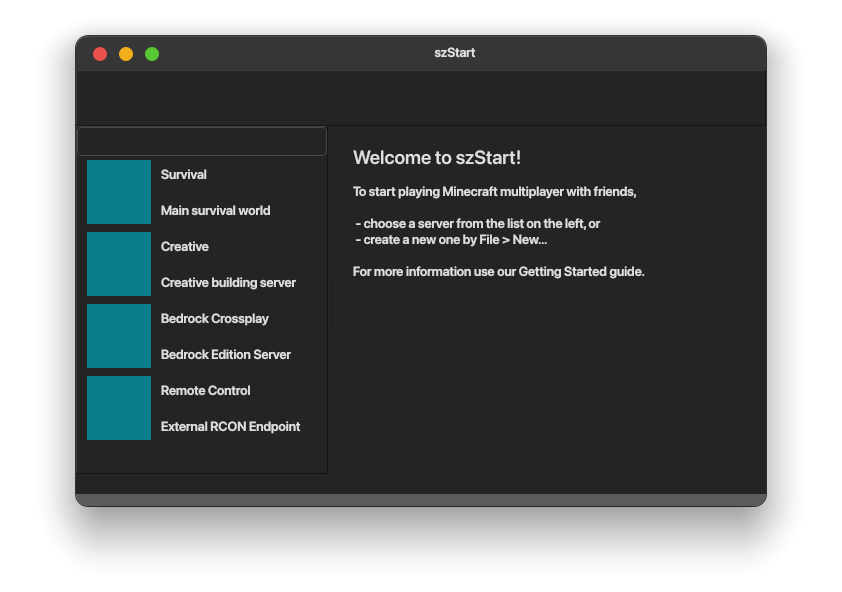
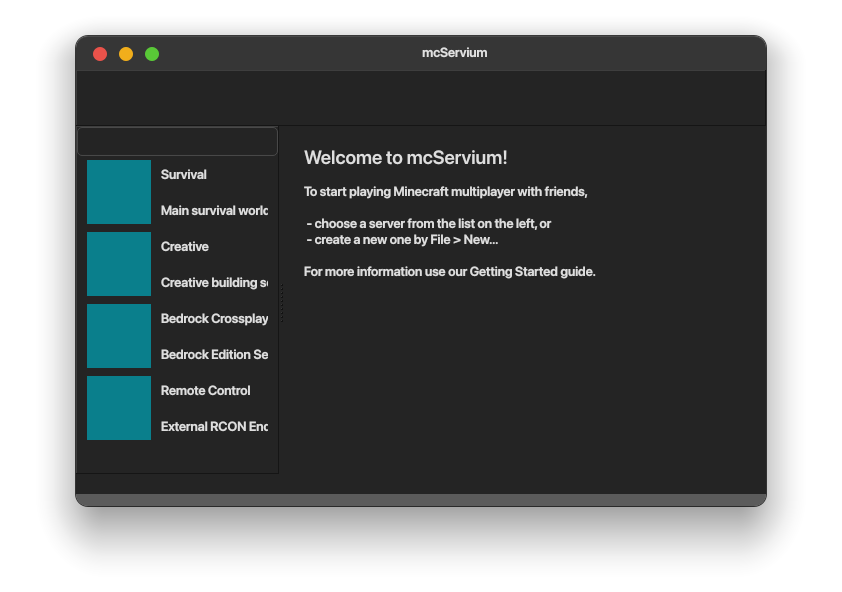
mcServium. The perfect name.

diff --git a/README.md b/README.md
@@ -1,4 +1,4 @@
-# mcServerium
+# mcServium
 
 > The project is in initial state, therefore no ready-to-go binaries, or even working builds.
 
